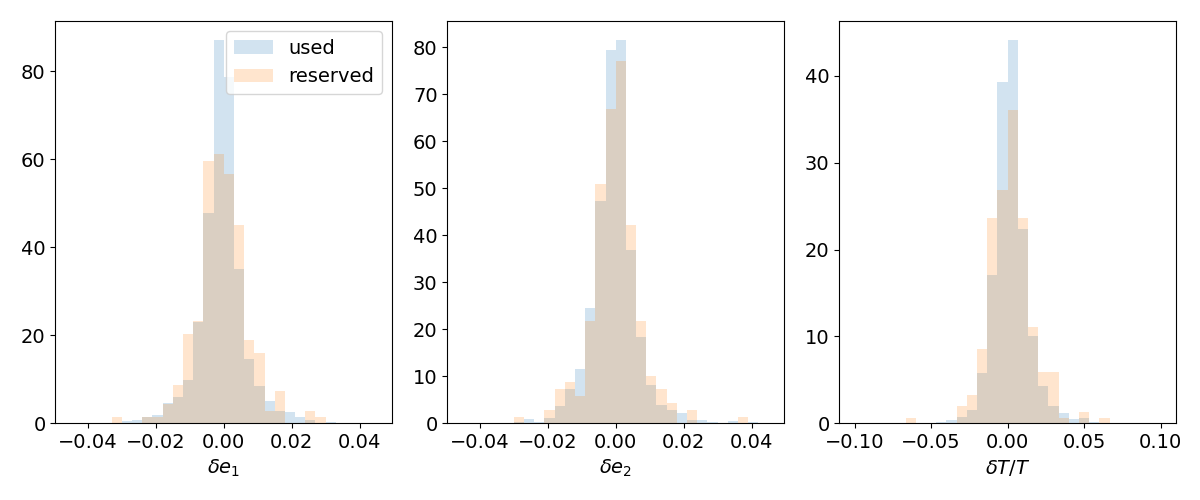
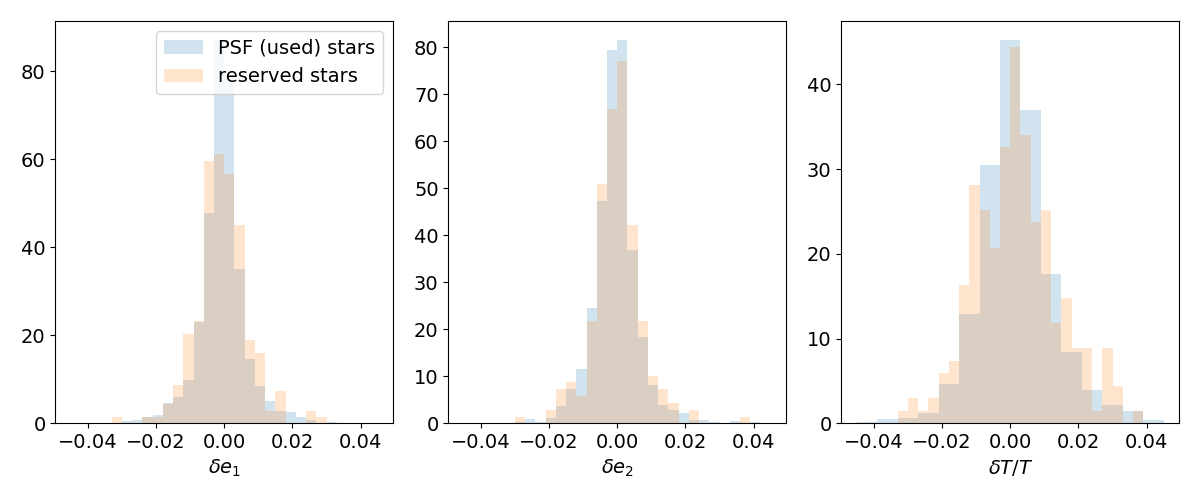
Add discussion on  PSf size residuals and link to multiplicative bias

diff --git a/SITCOMTN-161.tex b/SITCOMTN-161.tex
@@ -85,7 +85,7 @@ All the tests performed hereafter rely on the coadded data from the tracts and p
 \begin{figure}
 \centering'
 \includegraphics[width=0.5\textwidth]{Figures/nimages.png}
-\caption{\emph{Left}: number of images used in the coadded data in the field of A360. \emph{Right}: modulus of the PSF ellipticity in the field. The dithering pattern appears clearly. {\color{red}}\label{fig:dither}}
+\caption{Number of images used in the coadded data in the field of A360.\label{fig:dither}}
 \end{figure}
 
 
@@ -105,7 +105,7 @@ The figures in this note have been produced using the following:
 \section{PSF properties and diagnostics}
 \label{sec:tests}
 
-An accurate PSF model is essential for weak lensing studies. PSF model size errors result in an inaccurate correction for the dilution of the galaxy shear by the PSF convolution, which causes a coherent multiplicative bias in weak lensing shear; PSF model shape errors result in an inaccurate correction for the PSF shape, causing a coherent additive bias in weak lensing shear. Evaluating the performance of the PSF model on both aspects required comparing of the PSF model to the measurements of the PSF and reserved sets of stars.
+An accurate PSF model is essential for weak lensing studies. Briefly, PSF model size errors result in an inaccurate correction for the dilution of the galaxy shear by the PSF convolution, which causes a coherent multiplicative bias in weak lensing shear; PSF model shape errors result in an inaccurate correction for the PSF shape, causing a coherent additive bias in weak lensing shear. Evaluating the performance of the PSF model on both aspects required comparing of the PSF model to the measurements of the PSF and reserved sets of stars. We refer the reader to the PSF-related studies carried out to validate the shape catalogs of stage~III galaxy surveys (e.g. \citealp{2018PASJ...70S..25M, 2022PASJ...74..421L} for HSC; \citealp{2016MNRAS.460.2245J, 2018MNRAS.481.1149Z, 2021MNRAS.504.4312G} for DES) for a more comprehensive view than what we cover in this note.
 
 The second moments $I_{xx,xy,yy}$ measured on the objects and of the PSF model lie at the core of shape measurements used in weak lensing analyses. We refer the reader to \citet{2014ApJS..212....5M} for a pedagogical overview and provide here the main quantities needed in this note.   
 
@@ -140,6 +140,8 @@ The ellipticity can equivalently be written as $e = |e| \exp(2i\theta)$, where$|
 
 Before looking into the residuals in the next section, Figure~\ref{fig:T_and_e} displays the modulus of the PSF model size (left) and ellipticity (right) in the field. While the mean ellipticity across the field is ~0.07, there are several areas where the PSF ellipticity reaches significant values. This could be investigated further by checking the PSF at the individual visit level; this goes however beyond the scope of this technote which aims at checking, in the next section, whether the PSF modeling is sufficient for the purpose of measuring a lensing profile around A360.
 
+
+
 \begin{figure}
 \centering
 \includegraphics[width=\textwidth]{Figures/T_and_e.png}
@@ -149,12 +151,14 @@ Before looking into the residuals in the next section, Figure~\ref{fig:T_and_e} 
 
 \subsection{PSF residuals - distributions and whisker plots}
 To assess the performance of the PSF model, a first test consists in comparing the normalized distribution of the residuals defined above, for the PSF and reserved stars, to check for a possible overfitting of the PSF model (e.g., \citealp{2025OJAp....8E..26S}). As can be seen in Figure~\ref{fig:residual_distrib} (left and middle panels), the ellipticity residuals peak around zero and extend to $\sim 0.02$. The right panel shows the relative residuals of the trace, peaking around zero and not exceeding $\sim 5 \%$. The residuals obtained from the PSF stars and reserved stars behave similarly, so there is no indication of any overfitting of the PSF model.
-{\color{red} Expand a bit on the size residuals.}
 
 \begin{figure}
 \includegraphics[width=\textwidth]{Figures/residual_histograms.png}
 \caption{Normalised distributions of the ellipticity residuals $\delta e_1$ (left), $\delta e_2$ (right), and of the relative residuals $\delta T/T$ (right). The distributions are shown for the PSF (blue) and reserved (orange) sets of stars. \label{fig:residual_distrib}}
 \end{figure}
+
+Following \citet{2004MNRAS.353..529H, 2018PASJ...70S..25M}, a PSF model size error $\delta T$ yields a shear calibration (multiplicative bias) uncertainty $\delta m = -(R_2^{-1} -1)\; \delta T/T$, where $R_2$ is the so-called resolution factor\footnote{The resolution factor, $R_2 = 1 -\frac{T^{\rm PSF}}{T_{\rm gal}}$, tends to zero for poorly-resolved galaxies and to 1 for well-resolved ones.}. In the right panel of Figure~\ref{fig:residual_distrib}, the mean value of the reserved stars distribution is $\langle \delta T/T \rangle = 0.002$. Combined with a conservative mean value\footnote{For the source galaxy sample used in Section~\ref{sec:shear_profile}, that were requesting $R_2 > 0.3$, we find $\langle R_2^{-1} -1 \rangle = 0.96$.} 
+$\langle R_2^{-1} -1 \rangle = 1$, we get $\langle \delta m \rangle = 0.002$; this on par with the typical requirements for $3 \times 2$-point analyses \citep{2018arXiv180901669T}, which are more demanding the use case of galaxy cluster lensing we are considering here.
 
 
 \begin{figure}
@@ -164,7 +168,6 @@ To assess the performance of the PSF model, a first test consists in comparing t
 \end{figure}
 
 Figure~\ref{fig:whiskers} shows the variation of the PSF ellipticity and residuals across the field of A360. Each whisker is oriented according the direction of the ellipse major axis ($\theta$, Eq.(\ref{eq:theta})) and its length is proportional to the ellipticity modulus ($|e|$, Eq.(\ref{eq:modulus})); this is done for the PSF stars (top row) or reserved stars (bottom row). The left panel corresponds the measurements on the star themselves, the middle panel shows the corresponding PSF model, and the residuals are displayed in the right panel. A reference whisker is given for an ellipticity $|e| = 0.1$. Visually, the residuals (right panel) display no coherent pattern, which combined with the fact that they appear symmetrically distributed around zero in Figure~\ref{fig:residual_distrib}, suggests a good performance of the PSF model. We will quantify whether this is satisfactory and sufficient for the purpose of measuring the shear signal around A360 below.
-%Looking at the residuals (right panel), we conclude that the PSF model performs satisfactorily, in particular as it is successful at correcting the coherent ellipticity patterns seen across the field.
 
 
 \subsection{PSF residuals - tangential shear profile}
@@ -173,7 +176,8 @@ An important diagnostic for cluster weak lensing is to evaluate the contribution
 \begin{equation}
 \delta e_t = - \delta e_1  \cos(2 \phi) - \delta e_2  \sin(2 \phi),
 \end{equation}
-where $\phi$ is the position angle (with respect to the cluster center) at the location of the computed residuals\footnote{In the notebook supporting this note, this is done using the DESC CLMM code \citep{2021MNRAS.508.6092A}. To do so without relying on CLMM, we refer the reader to the following Rubin DP1 tutorial notebook: \url{https://dp1.lsst.io/tutorials/notebook/304/notebook-304-1.html}}. This provides an estimate of the additive bias in the tangential shear signal resulting from residuals in the PSF modeling.
+where $\phi$ is the position angle (with respect to the cluster center) at the location of the computed residuals%\footnote{In the notebook supporting this note, this is done using the DESC CLMM code \citep{2021MNRAS.508.6092A}. To do so without relying on CLMM, we refer the reader to the following Rubin DP1 tutorial notebook: \url{https://dp1.lsst.io/tutorials/notebook/304/notebook-304-1.html}}. 
+This provides an estimate of the additive bias in the tangential shear signal resulting from residuals in the PSF modeling.
 
 Figure~{\ref{fig:res_profile}} shows the corresponding binned radial profile (and corresponding statistical errors) as a function of the angular separation from the cluster center. The profile for PSF stars shows smaller error bars because of the larger number compared to the reserved set of the stars. The profiles are broadly consistent with zero on all scales given the errorbars (e.g, p-value $p=0.2$ for the reserved set of stars). 
 
@@ -185,7 +189,7 @@ Figure~{\ref{fig:res_profile}} shows the corresponding binned radial profile (an
 
 
 \subsection{PSF rho-statistics}
-The $\rho$-statistics \citep{2010MNRAS.404..350R, 2016MNRAS.460.2245J} are a set of two-point correlation functions involving PSF ellipticity and size residuals. They quantify spatially-correlated errors in PSF modeling and contributions from PSF leakage. We use the LSST Science Pipelines \code{analysis\_tools}\footnote{\url{https://pipelines.lsst.io/v/daily/modules/lsst.analysis.tools}} implementation to compute the $\rho$-statistics, which internally relies on the TreeCorr software package \citep{2015ascl.soft08007J} for the correlation function calculations. The definitions of the $\rho$-statistics as calculated by \code{analysis\_tools} are documented in the LSST science pipelines and include those originally introduced by \citet{2010MNRAS.404..350R, 2016MNRAS.460.2245J}, as well as an additional one defined in the context of cluster analysis by \citet{2015MNRAS.449.2219M}.
+The $\rho$-statistics \citep{2010MNRAS.404..350R, 2016MNRAS.460.2245J} are a set of two-point correlation functions involving PSF ellipticity and size residuals. They quantify spatially-correlated errors in PSF modeling and contributions from PSF leakage, that yield additive biases to the shear estimation. We use the LSST Science Pipelines \code{analysis\_tools}\footnote{\url{https://pipelines.lsst.io/v/daily/modules/lsst.analysis.tools}} implementation to compute the $\rho$-statistics, which internally relies on the TreeCorr software package \citep{2015ascl.soft08007J} for the correlation function calculations. The definitions of the $\rho$-statistics as calculated by \code{analysis\_tools} are documented in the LSST science pipelines and include the $\rho_1$ to $\rho_5$ originally introduced by \citet{2010MNRAS.404..350R, 2016MNRAS.460.2245J}, as well as $\rho_{3^\prime}$ defined in the context of cluster analysis by \citet{2015MNRAS.449.2219M}.
 
 We used the set of reserved stars to calculate the rho statistics in the $i$-band, and display the results in Figure~\ref{fig:rho_stat}.
 
@@ -194,6 +198,8 @@ We used the set of reserved stars to calculate the rho statistics in the $i$-ban
 \includegraphics[width=\textwidth]{Figures/rho_stat_noband.png}
 \caption{The various $\rho$-statistics correlations as a function of separation, as produced by the Rubin \code{AnalysisTools} software.\label{fig:rho_stat}}
 \end{figure}
+
+
 
 {\color{red} TODO: describe and conclude on rho-stat}
 

diff --git a/acronyms.tex b/acronyms.tex
@@ -2,6 +2,7 @@
 \begin{longtable}{p{0.145\textwidth}p{0.8\textwidth}}\hline
 \textbf{Acronym} & \textbf{Description}  \\\hline
 
+DES & Dark Energy Survey \\\hline
 DESC & Dark Energy Science Collaboration \\\hline
 DM & Data Management \\\hline
 DMTN & DM Technical Note \\\hline
